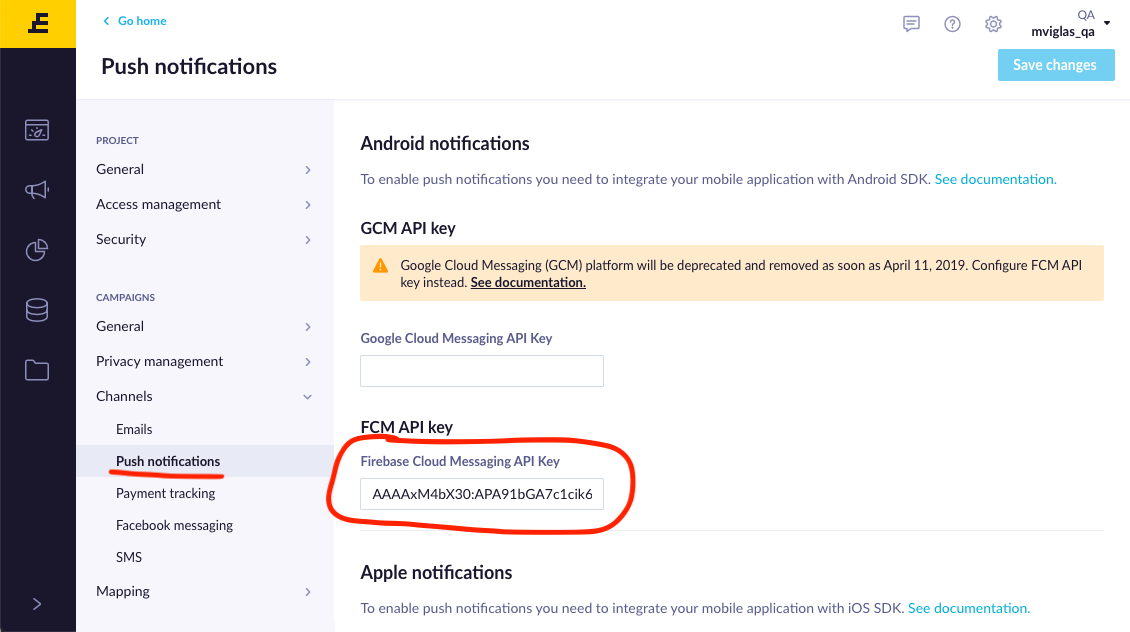
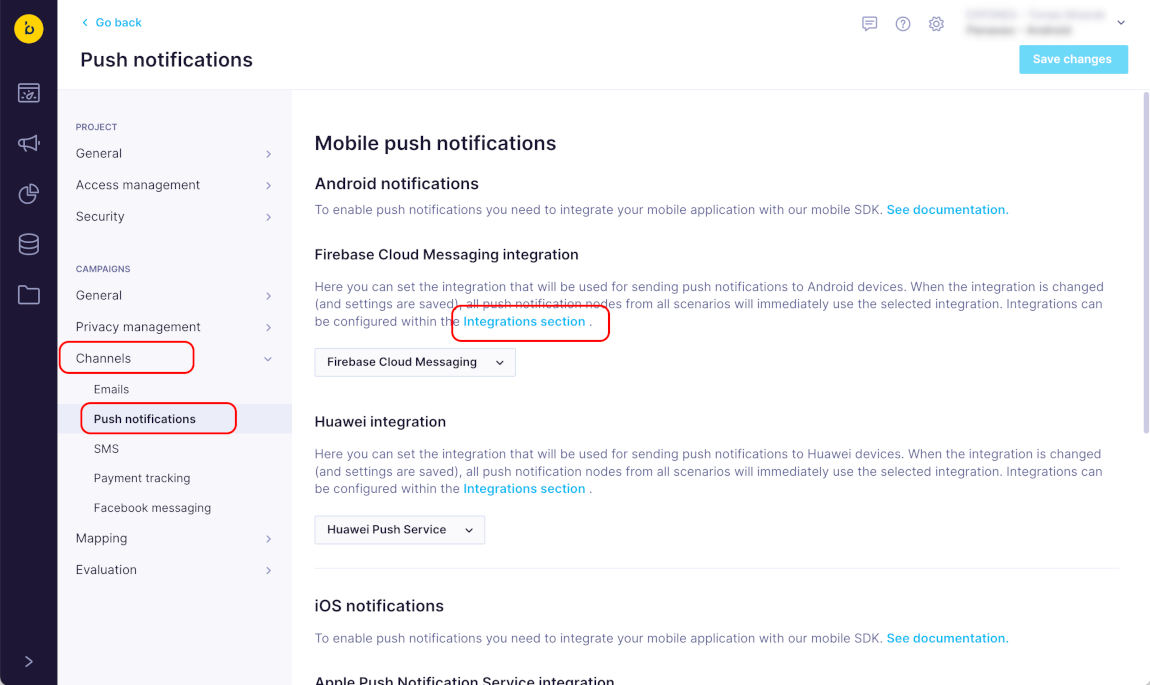
feat/DCM integration guide updated

diff --git a/Guides/FIREBASE.md b/Guides/FIREBASE.md
@@ -12,15 +12,28 @@
 
   ![](pics/push3.png)
 
-
-  5. Go to [Exponea Web App](https://app.exponea.com), login and navigate to Project Settings
+  5. Go to [Exponea Web App](https://app.exponea.com), login and navigate to `Project Settings`
 
   ![](pics/push4.png)
 
-  6. Navigate to `Channels->Push notifications`. Locate FCM API Key input field and
-  pass value you have copied from **Firebase**
-
+  6. Navigate to `Channels->Push notifications`. Locate `Firebase Cloud Messaging integration` section and click `Integration section link`
 
   ![](pics/push5.png)
+
+  7. Click to `Add new integration`
+
+  ![](pics/push6.png)
+
+  8. Choose `Firebase Cloud Messaging` from options. Feel free to use `Mobile push notification` tag to filter options.
+
+  ![](pics/push7.png)
+
+  9. Locate `API key` input field and pass value you have copied from **Firebase** and click `Save integration`
+
+  ![](pics/push8.png)
+
+  10. Navigate back to `Channels->Push notifications` in project settings. Now you are able to choose an option `Firebase Cloud Messaging` in `Firebase Cloud Messaging integration` section
+
+  ![](pics/push9.png)
 
   7. Save Changes
